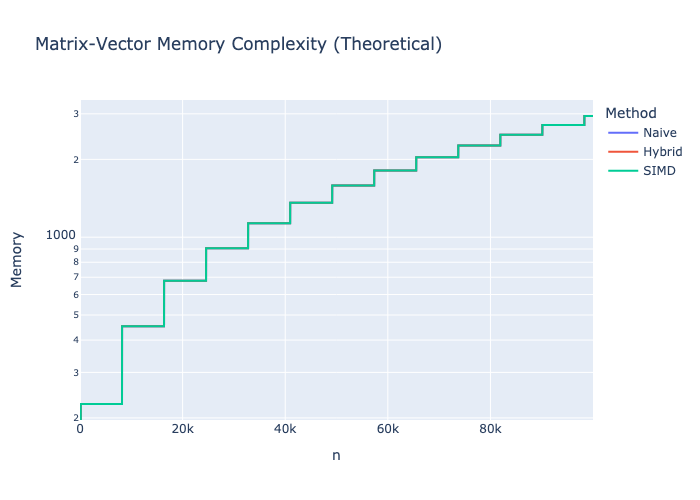
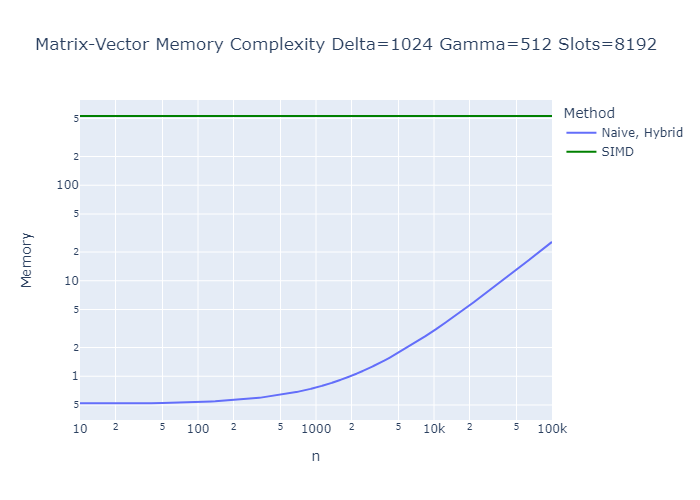
Theoretical plots improved

diff --git a/plot_generation.py b/plot_generation.py
@@ -582,7 +582,7 @@ def plot_matmul_performance_theoretical():
         data_dictTime = {"n":ns,"Time (s)":time}
         dfTime = pandas.DataFrame(data_dictTime)
 
-        figTime.add_trace(go.Scatter(x=data_dictTime["n"],y=data_dictTime["Time (s)"], mode="lines",name="SIMD"))
+        figTime.add_trace(go.Scatter(x=data_dictTime["n"],y=data_dictTime["Time (s)"], mode="lines",name="SIMD",line=dict(color='green')))
         
         
         
@@ -599,19 +599,21 @@ def plot_matmul_performance_theoretical():
             n_prime = math.ceil(n/math.floor(m/(2*delta)))
             mem.append((gamma*p+n_prime*p)/1000)
 
-        data_dictMem = {"n":ns,"Mem":time}
+        data_dictMem = {"n":ns,"Mem":mem}
 
-        figMem.add_trace(go.Scatter(x=data_dictMem["n"],y=data_dictMem["Mem"], mode="lines",name="Naive"))
+        figMem.add_trace(go.Scatter(x=data_dictMem["n"],y=data_dictMem["Mem"], mode="lines",name="Naive, Hybrid"))
         
+        """
         #HYBRID
         mem = []
         for n in ns:
             n_prime = math.ceil(n/math.floor(m/(2*delta)))
             mem.append((gamma*p+n_prime*p)/1000)
 
-        data_dictMem = {"n":ns,"Mem":time}
+        data_dictMem = {"n":ns,"Mem":mem}
 
         figMem.add_trace(go.Scatter(x=data_dictMem["n"],y=data_dictMem["Mem"], mode="lines",name="Hybrid"))
+        """
         
         #SIMD
         mem = []
@@ -619,28 +621,30 @@ def plot_matmul_performance_theoretical():
             n_prime = math.ceil(n/m)
             mem.append((delta*gamma*p+gamma*n_prime*p)/1000)
 
-        data_dictMem = {"n":ns,"Mem":time}
+        data_dictMem = {"n":ns,"Mem":mem}
 
-        figMem.add_trace(go.Scatter(x=data_dictMem["n"],y=data_dictMem["Mem"], mode="lines",name="SIMD"))
+        figMem.add_trace(go.Scatter(x=data_dictMem["n"],y=data_dictMem["Mem"], mode="lines",name="SIMD",line=dict(color='green')))
         
         
         figTime.update_layout(
-            title="Matrix-Vector Runtimes (Theoretical)",
+            title="Matrix-Vector Runtimes (Theoretical) Delta="+str(delta)+" Gamma="+str(gamma)+" Slots="+str(m),
             xaxis_title="n",
             yaxis_title="Time (s)",
             legend_title="Method",
         )
         figTime.update_yaxes(type="log")
+        figTime.update_xaxes(type="log")
                 
         figTime.write_image("figures/TheoreticalPlots/TheoreticalTime_delta="+str(delta)+"_gamma="+str(gamma)+"_slots="+str(m)+".png")
         
         figMem.update_layout(
-            title="Matrix-Vector Memory Complexity (Theoretical)",
+            title="Matrix-Vector Memory Complexity Delta="+str(delta)+" Gamma="+str(gamma)+" Slots="+str(m),
             xaxis_title="n",
             yaxis_title="Memory",
             legend_title="Method",
         )
         figMem.update_yaxes(type="log")
+        figMem.update_xaxes(type="log")
                 
         figMem.write_image("figures/TheoreticalPlots/TheoreticalMemory_delta="+str(delta)+"_gamma="+str(gamma)+"_slots="+str(m)+".png")
 
